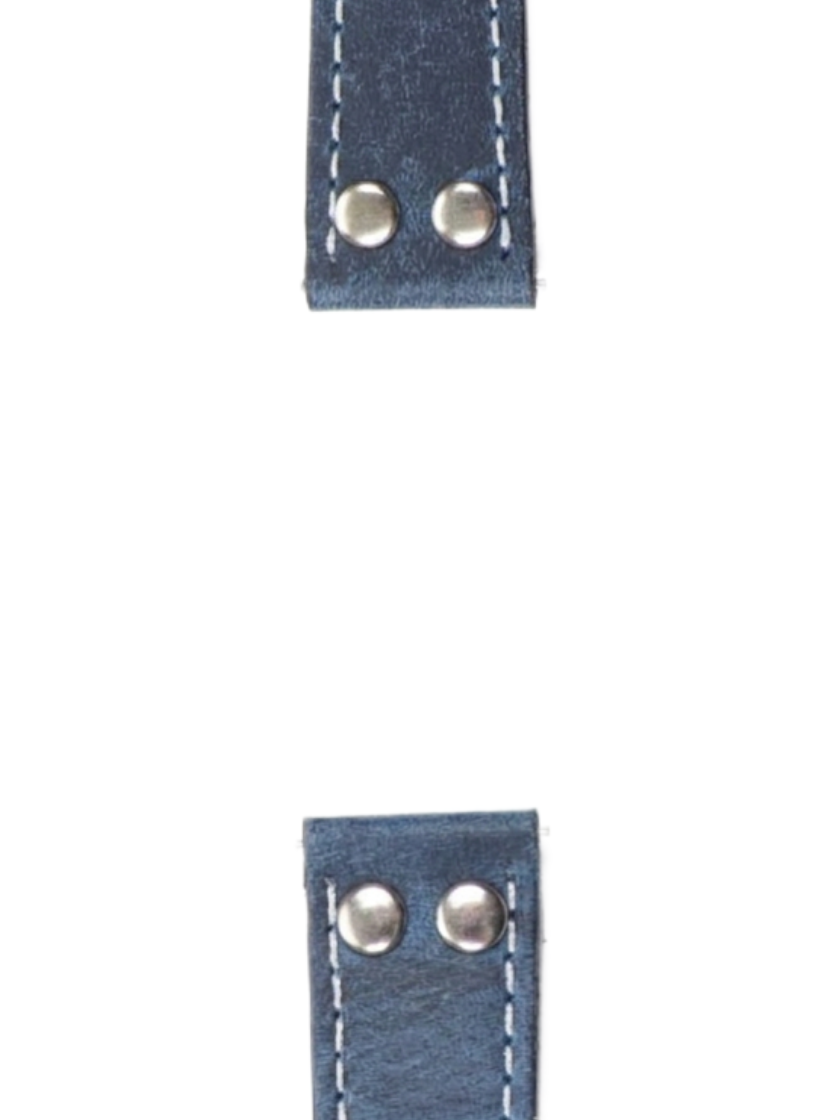
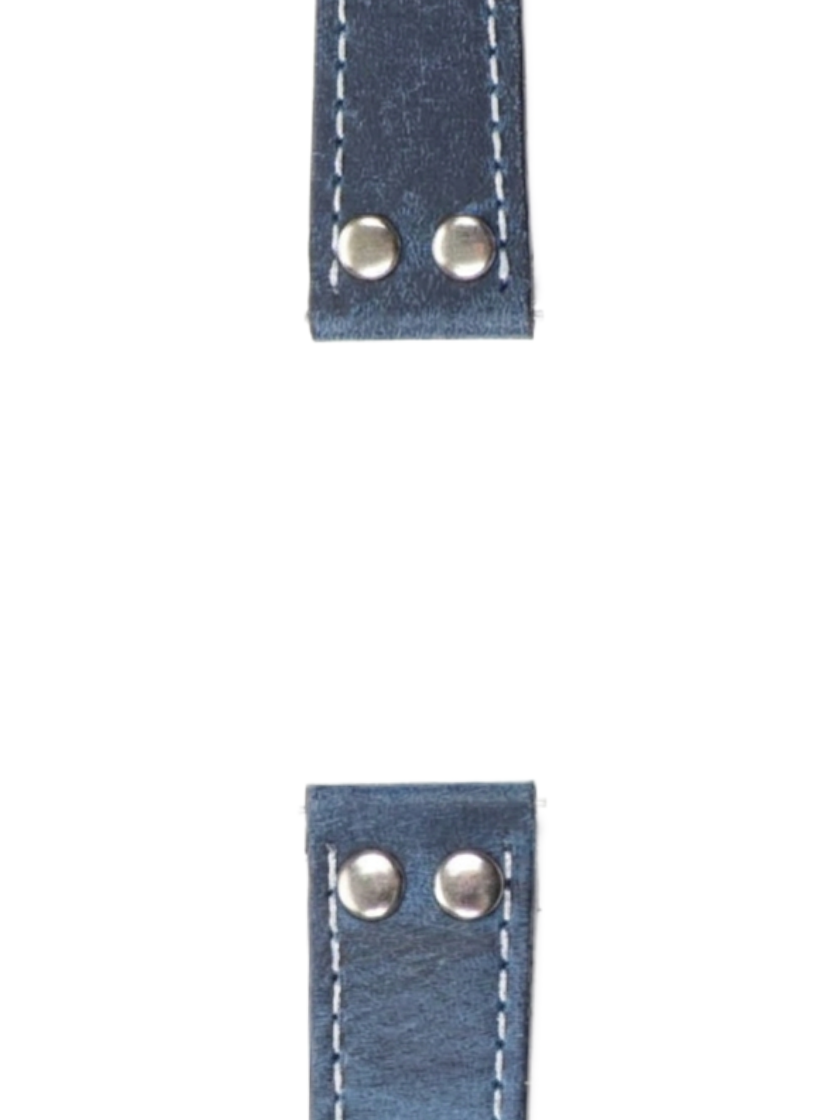
Added bands

Changed region(s): [[0.3405, 0.6875, 0.65, 1.0], [0.3405, 0.0, 0.65, 0.3125], [0.4952, 0.0, 0.5262, 0.0312]]

diff --git a/js/parts-data.js b/js/parts-data.js
@@ -113,7 +113,7 @@ var PARTS = {
       tags: ["pilot", "Steel"], img: "parts/case-pilot-steel.png",
       note: "pilot style · 36mm case diameter",
       accepts: { mov_brand: ["nh", "vh"], dial_mm: { max: 28.5 } },
-      compatible: { band: ["band-leather-cognac", "band-leather-noir", "band-rubber-noir", "band-nato-black-and-grey"] } },
+      compatible: { band: ["band-leather-cognac", "band-leather-noir", "band-rubber-noir", "band-nato-black-and-grey", "band-leather-aviator-midnight", "band-leather-aviator-green"] } },
     { id: "case-prx-steel", price: 50,   name: "PRX · steel", vendor: "Grayss", url: "",
       group: "prx", swatch: "#cfd2d6",
       tags: ["prx", "Steel"], img: "parts/case-prx-steel.png",
@@ -329,6 +329,9 @@ var PARTS = {
     { id: "band-leather-aviator-midnight", price: 25, name: "Aviator · midnight", vendor: "CNS watch bands", url: "https://cnswatchbands.com/products/aviator-midnight",
       group: "leather-aviator", swatch: "#4F576B",
       tags: ["leather", "aviator"], img: "parts/band-leather-aviator-midnight.png" },
+    { id: "band-leather-aviator-green", price: 25, name: "Aviator · green", vendor: "CNS watch bands", url: "https://cnswatchbands.com/products/aviator-british-racing-green",
+      group: "leather-aviator", swatch: "#3D3F31",
+      tags: ["leather", "aviator", "green"], img: "parts/band-leather-aviator-green.png" },
     
     
   ],
